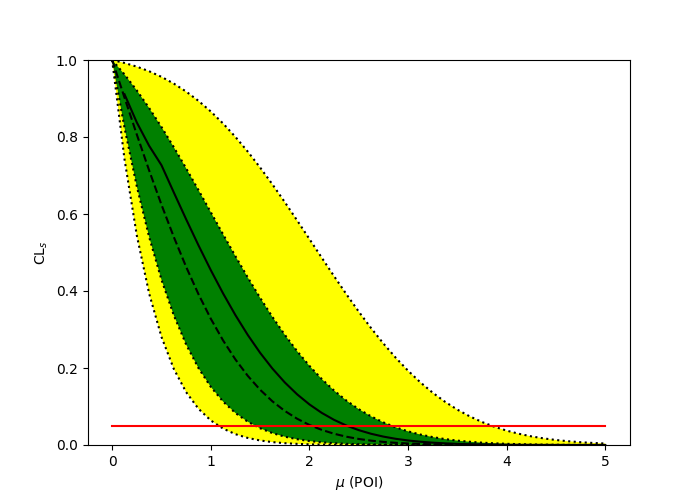
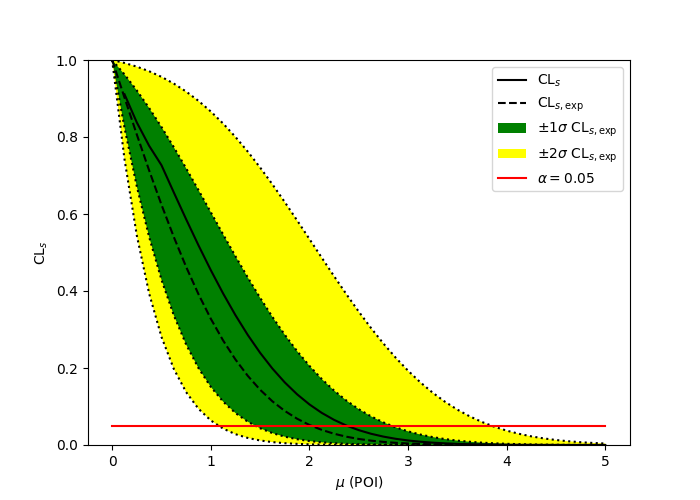
Update README examples

Changed region(s): [[0.69, 0.3, 0.9, 0.39], [0.69, 0.21, 0.9, 0.27], [0.72, 0.15, 0.81, 0.18]]

diff --git a/README.rst b/README.rst
@@ -174,8 +174,6 @@ A one bin example
 
    fig, ax = plt.subplots()
    fig.set_size_inches(7, 5)
-   ax.set_xlabel(r"$\mu$ (POI)")
-   ax.set_ylabel(r"$\mathrm{CL}_{s}$")
    brazil.plot_results(poi_vals, results, ax=ax)
    fig.show()
 
@@ -219,8 +217,6 @@ A two bin example
 
    fig, ax = plt.subplots()
    fig.set_size_inches(7, 5)
-   ax.set_xlabel(r"$\mu$ (POI)")
-   ax.set_ylabel(r"$\mathrm{CL}_{s}$")
    brazil.plot_results(poi_vals, results, ax=ax)
    fig.show()
 
